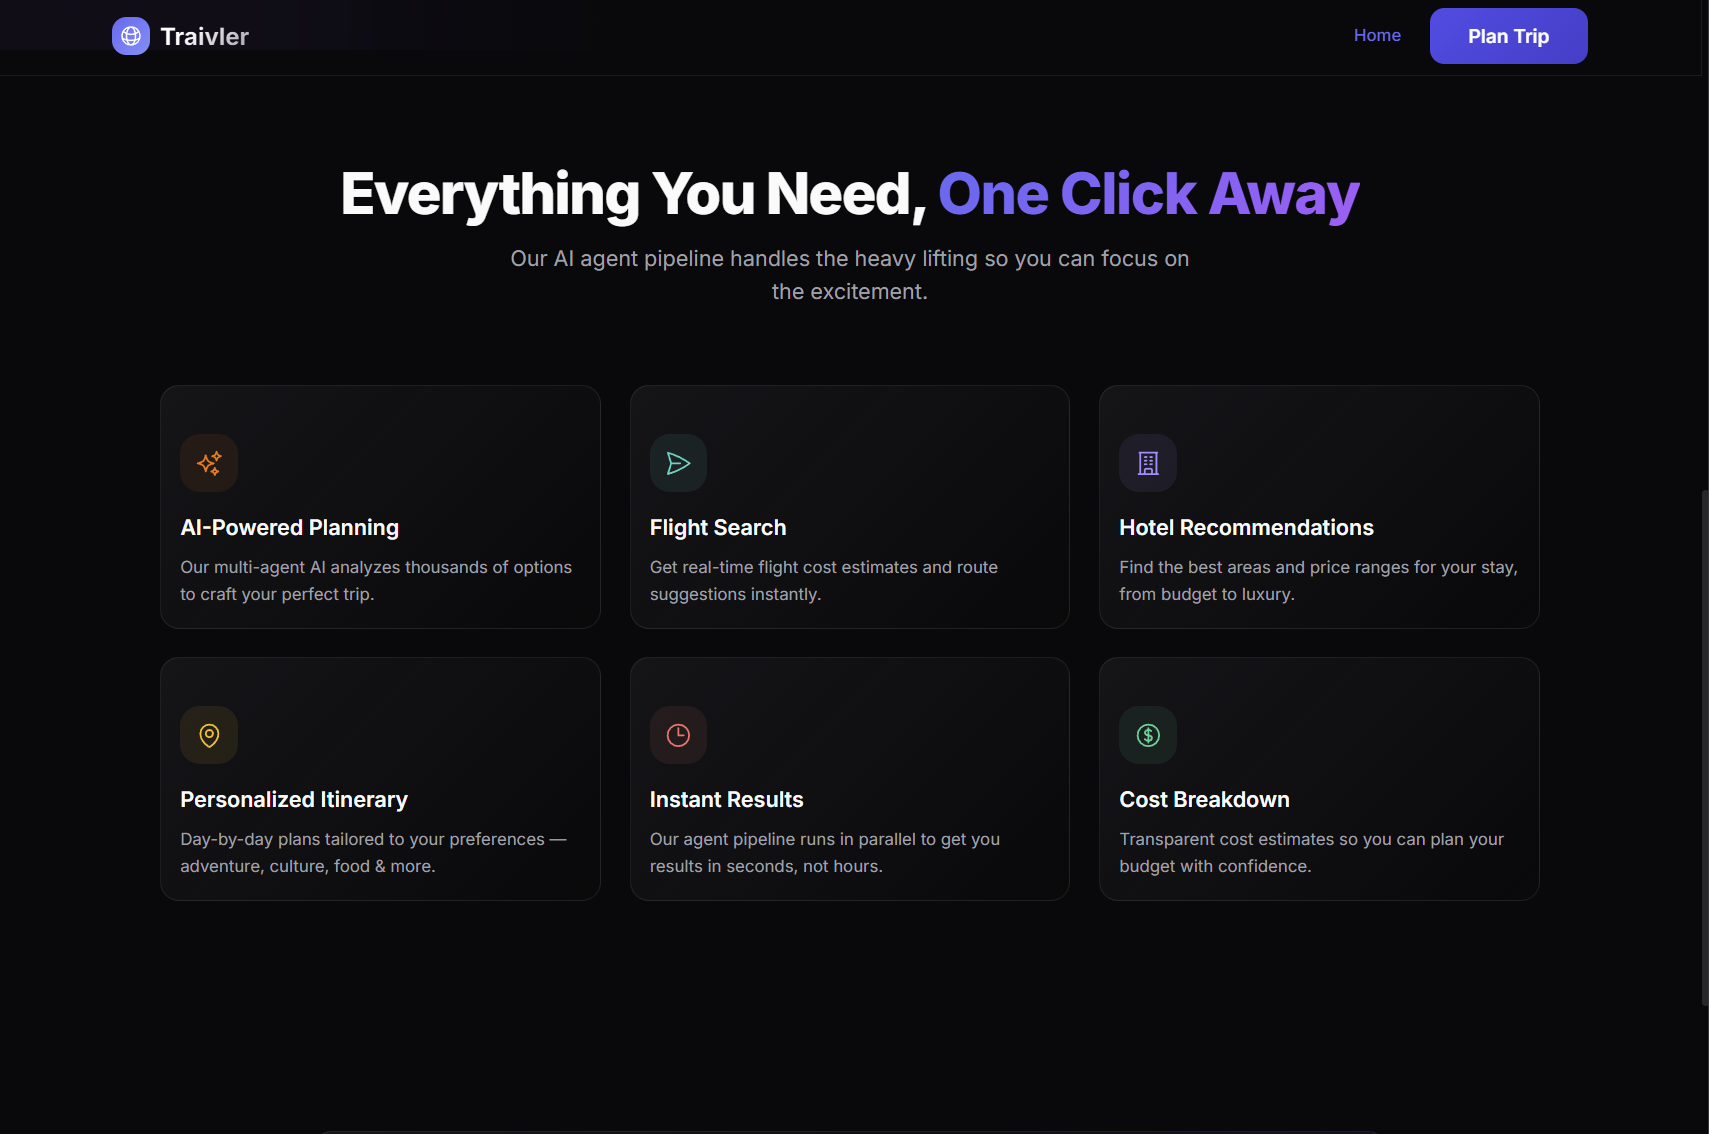
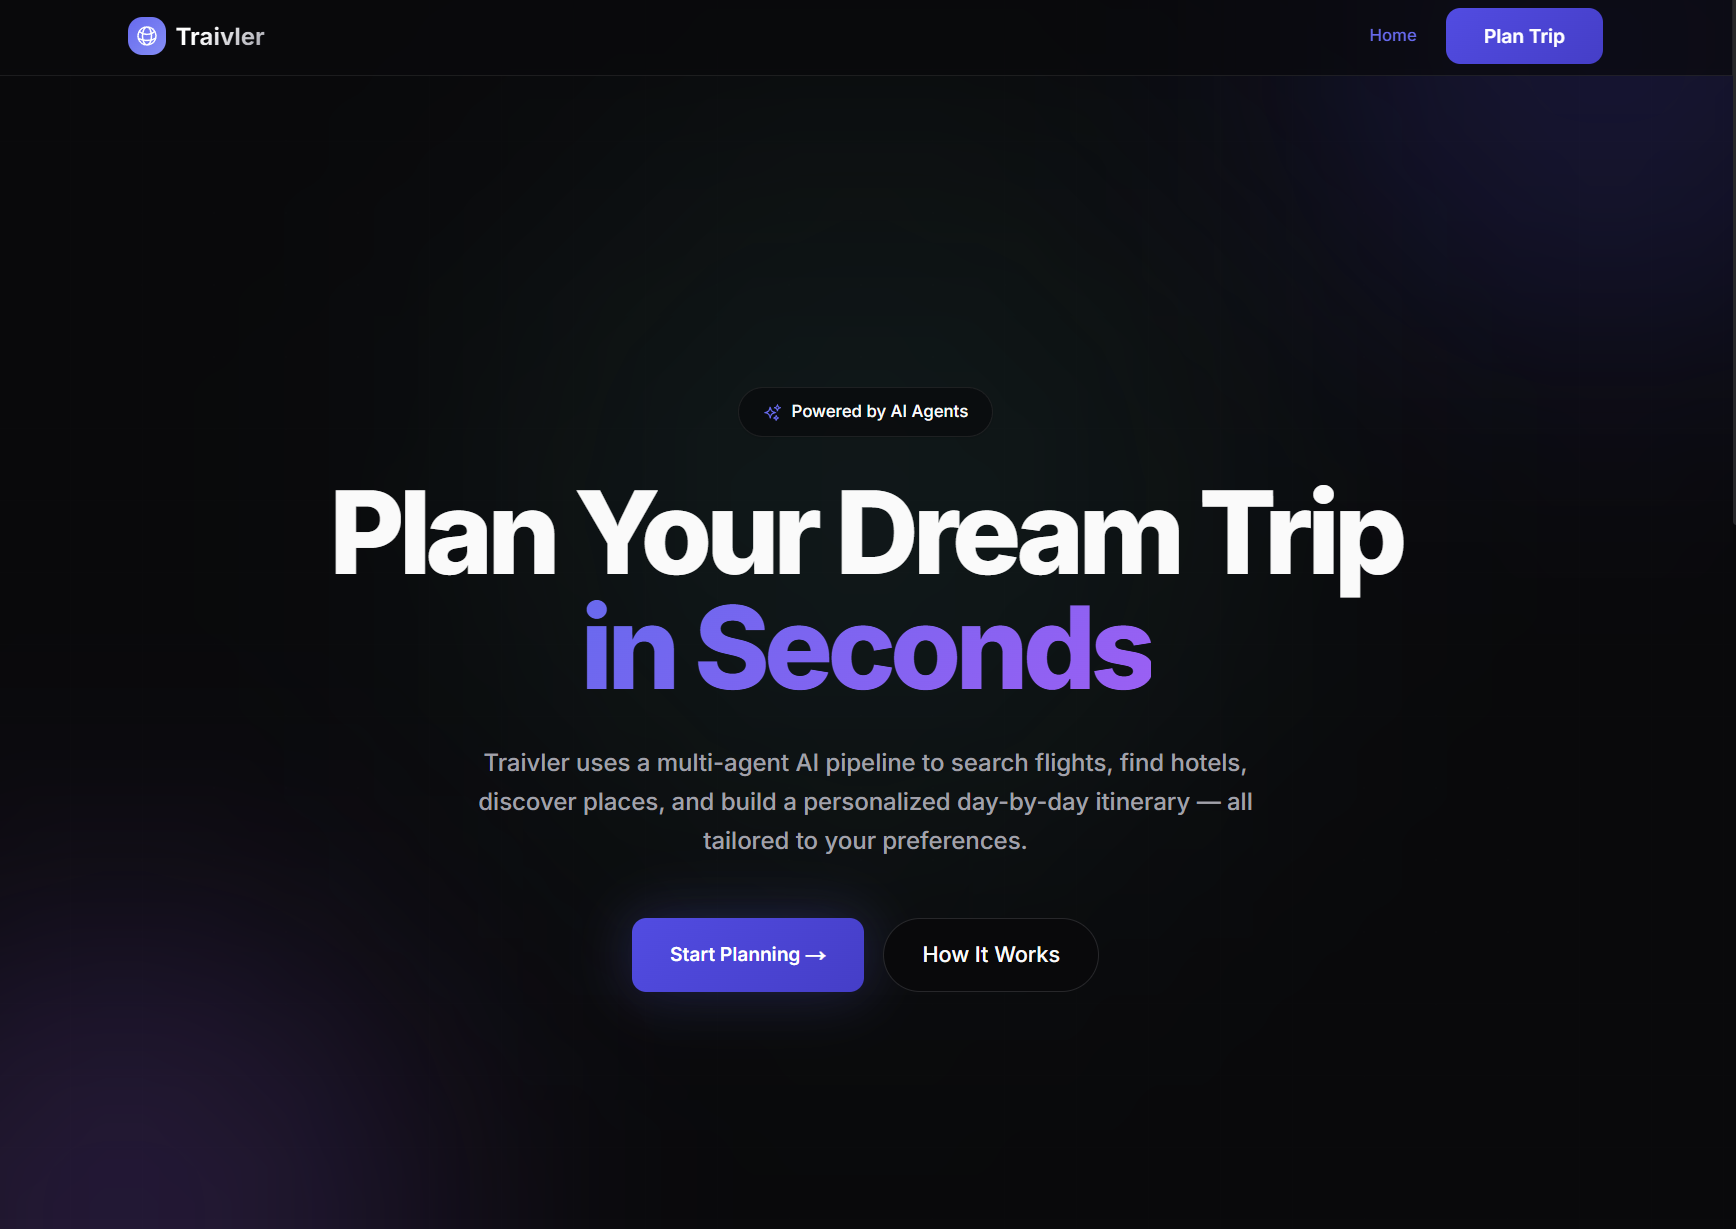
modified project thumbnails

diff --git a/data/portfolio.ts b/data/portfolio.ts
@@ -188,44 +188,45 @@ export const PROFESSIONAL_PROJECTS = [
 
 export const INDEPENDENT_PROJECTS = [
     {
-        title: "CloudyUnicorn Tools",
-        type: "Independent Product",
-        summary: "SEO-first utility platform featuring calculators, decision tools and performance-focused architecture.",
-        tech: "Astro, Tailwind, Cloudflare",
-        img: "/images/projects/cloudyunicorn.png",
-        link: "https://www.cloudyunicorn.com/",
+        title: "Selrite",
+        type: "In Development - Independent Product",
+        summary: "AI Voice Sales Representative that answers calls, qualifies leads, and records structured reports to a CRM dashboard with GPT-generated summaries.",
+        tech: "Next.js, Vapi SDK, OpenAI, Supabase, Tailwind CSS",
+        img: "/images/projects/selrite.jpg",
+        link: "https://github.com/cloudyunicorn/selrite",
         caseStudy: {
-            challenge: "Needed a fast, SEO-optimized platform for hosting utility tools and health calculators.",
-            solution: "Built with Astro for maximum performance and SEO, deployed on Cloudflare for global edge delivery.",
-            technology: "Astro, Tailwind CSS, Cloudflare, Google Gemini API",
+            challenge: "Static lead qualification forms result in low conversion rates; businesses need an engaging, conversational, and instant voice-based screening tool.",
+            solution: "Built an AI voice agent using Vapi SDK for sub-second latency voice calls, coupled with a server-side OpenAI pipeline that processes transcripts into structured JSON lead reports, storing them in Supabase for a live CRM dashboard.",
+            technology: "Next.js 16, Vapi SDK, OpenAI API, Supabase, Tailwind CSS",
+        }
+    },
+    {
+        title: "CloudyUnicorn",
+        type: "Independent Product",
+        summary: "Full-stack programmatic SEO & affiliate platform featuring a multi-agent AI writer, Playwright web crawler, and Next.js ISR frontend.",
+        tech: "Next.js, FastAPI, LangGraph, Supabase, Playwright, Tailwind CSS",
+        img: "/images/projects/cloudyunicorn.jpg",
+        link: "https://github.com/cloudyunicorn/cloudyunicorn-frontend",
+        caseStudy: {
+            challenge: "Manually researching SaaS tools, pricing tiers, and integrations to write comparison reviews is slow and prone to outdated information.",
+            solution: "Built a FastAPI-based automation engine with a Playwright crawler to fetch SaaS data, combined with a LangGraph multi-agent fact-checking writer to compile hallucination-free MDX comparison pages dynamically synced to a Next.js ISR frontend.",
+            technology: "Next.js 16, React 19, FastAPI, LangGraph, Supabase, Playwright, Tailwind CSS v4",
         }
     },
     {
         title: "Traivler",
         type: "Independent Product",
-        summary: "AI travel planning agent that generates detailed itineraries using multi-step reasoning and real-time data.",
-        tech: "Next.js, LangGraph, FastAPI, OpenAI",
+        summary: "Multi-agent travel planning platform that generates personalized, cost-verified itineraries using parallel LangGraph execution, live flight/hotel API integrations, and SSE streaming.",
+        tech: "Next.js, FastAPI, LangGraph, OpenAI, Tailwind CSS",
         img: "/images/projects/traivler.png",
-        link: "https://traivler.vercel.app/",
+        link: "https://github.com/cloudyunicorn/traivler-frontend",
         caseStudy: {
-            challenge: "Travel planning involves multiple steps — destinations, logistics, budgets — that benefit from AI orchestration.",
-            solution: "Built an agentic AI workflow using LangGraph to handle multi-step travel planning with a Next.js frontend.",
-            technology: "Next.js, LangGraph, FastAPI, OpenAI API",
+            challenge: "Travel planning is complex and time-consuming, requiring manual budget checks, schedule matching, and flight/hotel rate lookups across different websites.",
+            solution: "Developed a parallel multi-agent graph with LangGraph that concurrently queries travel APIs for flights and hotels, searches local activities, resolves constraint optimization parameters (diet, fitness, blacklist), and streams live progress via Server-Sent Events (SSE) to a Next.js dashboard.",
+            technology: "Next.js 16, FastAPI, LangGraph, OpenAI API, Tailwind CSS v4",
         }
     },
-    {
-        title: "cloudyunicorn",
-        type: "Independent Product",
-        summary: "pSEO SaaS comparison website.",
-        tech: "Next.js, Tailwind CSS, Netlify",
-        img: "/images/projects/chatryt.png",
-        link: "https://cloudyunicorn.netlify.app/",
-        caseStudy: {
-            challenge: "Needed to build a highly search-optimized and performant platform comparing SaaS platforms.",
-            solution: "Designed a programmatic SEO architecture to generate comparisons dynamically, resulting in fast load times and optimized indexing.",
-            technology: "Next.js, Tailwind CSS, Netlify",
-        }
-    },
+
 ];
 
 export const CONTACT_SERVICES = [